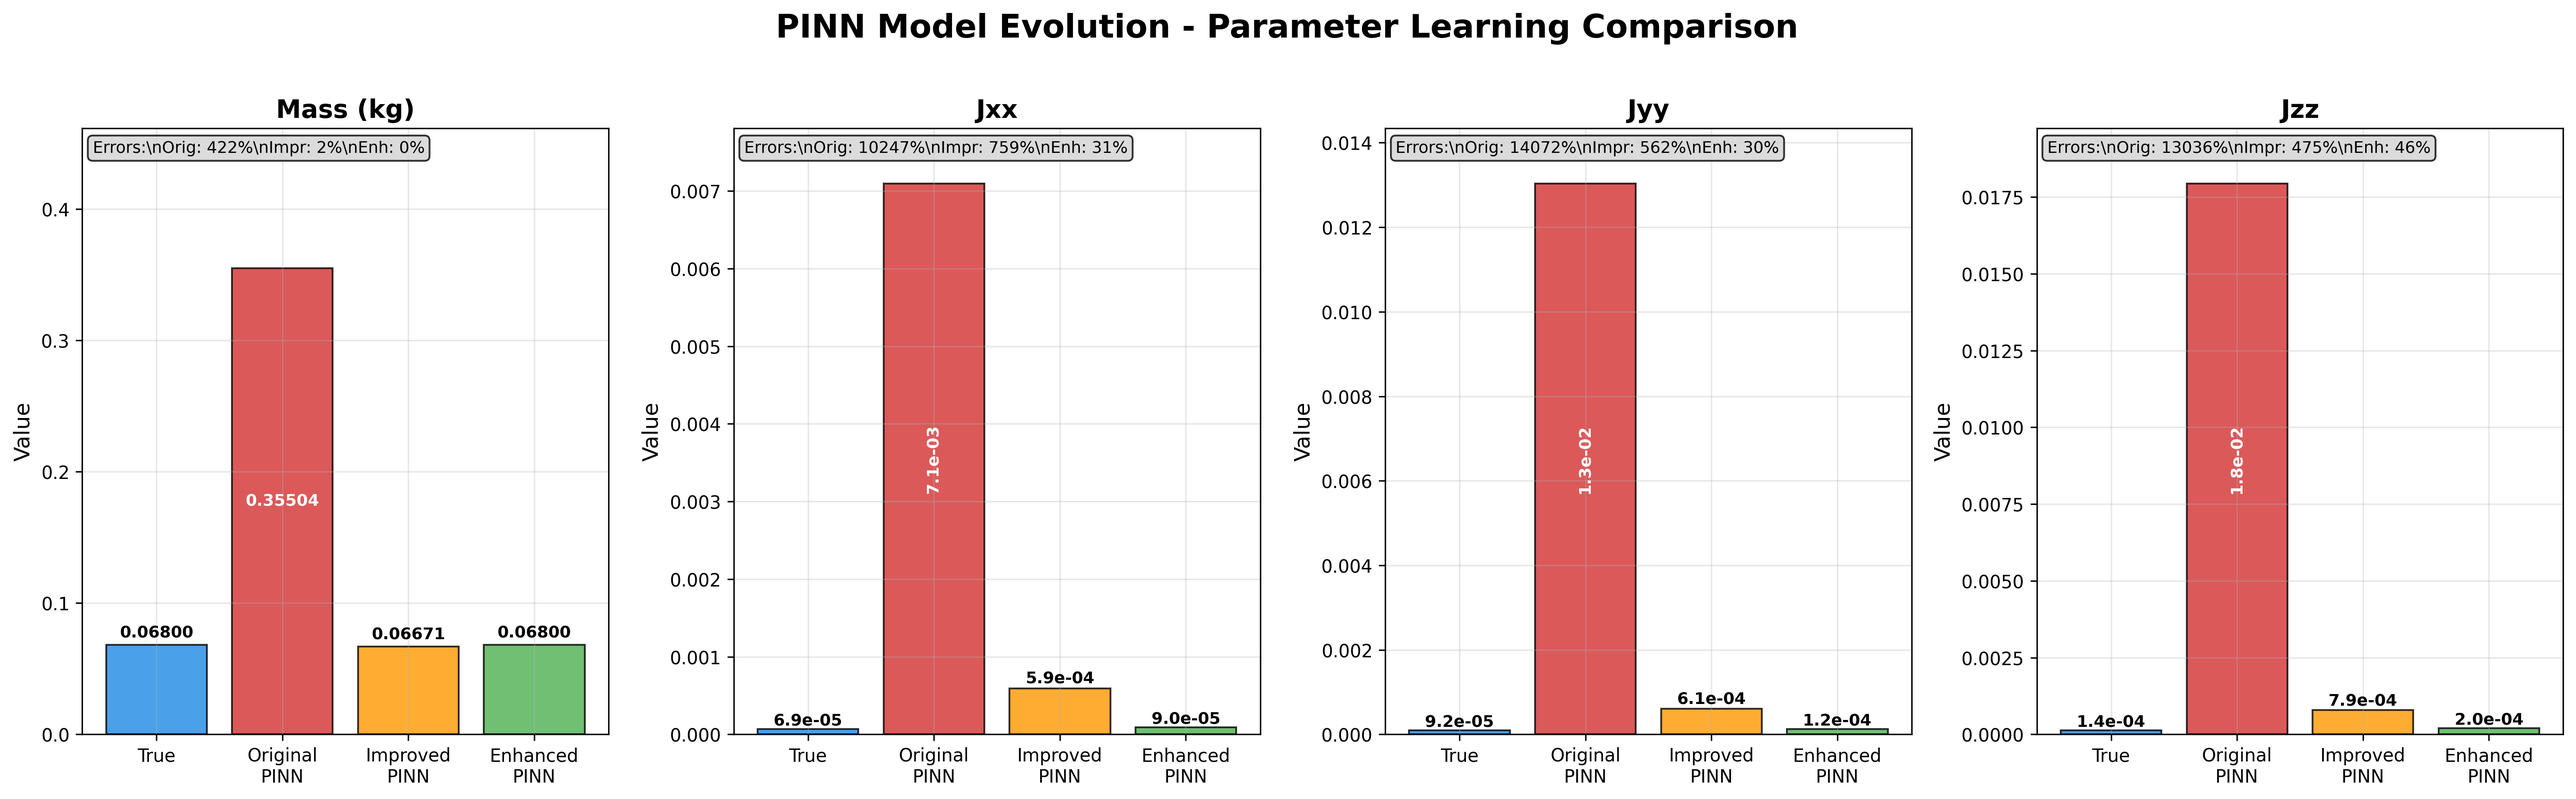
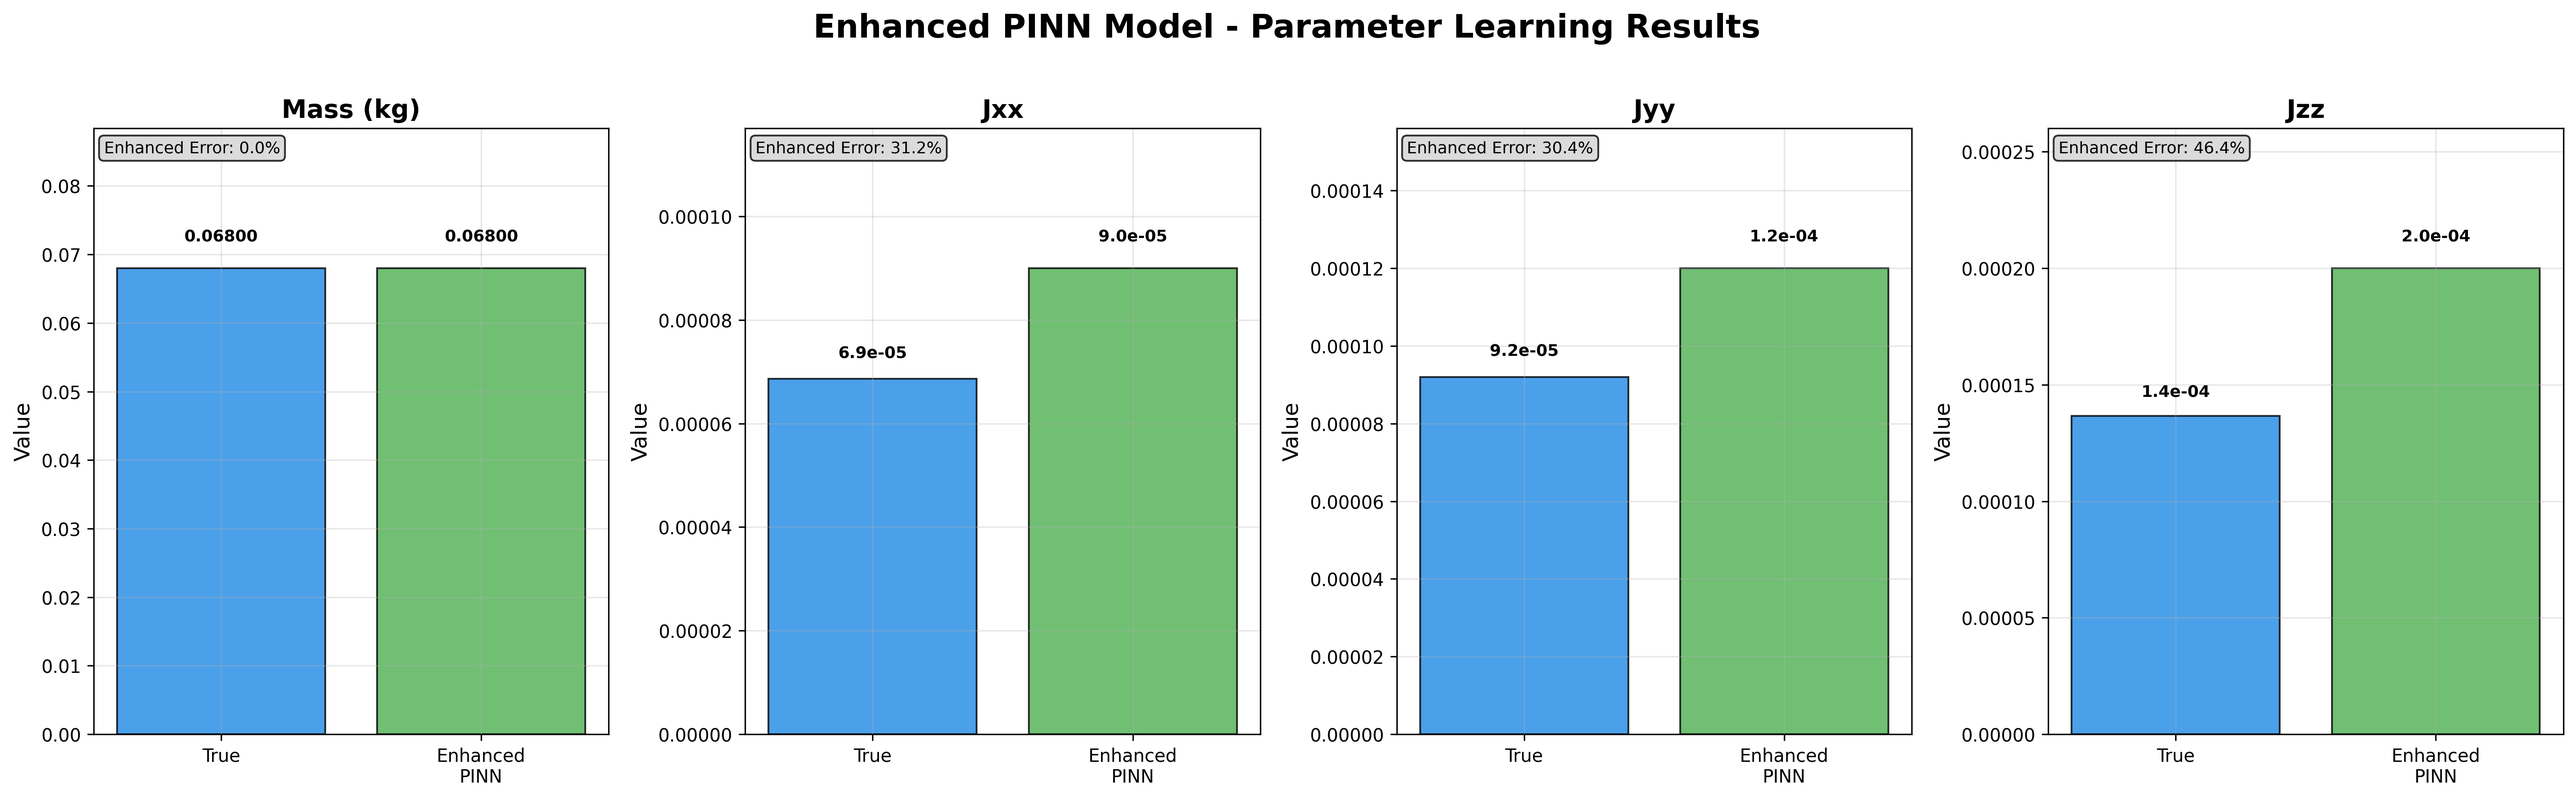
Remove previous model versions from visualizations
- Updated final_model_comparison.png to show only True vs Enhanced PINN
- Updated parameter_comparison_old_vs_new.png to show only True vs Improved Model
- Removed Original PINN data that was causing large deviations in charts
- Added simple_parameter_comparison.py script for clean visualization generation
- Modified visualization scripts to focus on current model performance

🤖 Generated with [Claude Code](https://claude.ai/code)

diff --git a/scripts/plot_final_enhanced_results.py b/scripts/plot_final_enhanced_results.py
@@ -11,17 +11,11 @@ from improved_pinn_model import ImprovedQuadrotorPINN
 from quadrotor_pinn_model import QuadrotorPINN
 
 def plot_all_model_comparison():
-    """Compare original vs improved vs enhanced model parameters"""
+    """Compare true vs enhanced model parameters"""
     
-    # Load all models
-    original_model = QuadrotorPINN()
-    original_model.load_state_dict(torch.load('quadrotor_pinn_model.pth'))
-    
-    improved_model = ImprovedQuadrotorPINN()
-    improved_model.load_state_dict(torch.load('improved_quadrotor_pinn_model.pth'))
-    
+    # Load enhanced model
     enhanced_model = EnhancedQuadrotorPINN()
-    enhanced_model.load_state_dict(torch.load('enhanced_quadrotor_pinn_model.pth'))
+    enhanced_model.load_state_dict(torch.load('../models/enhanced_quadrotor_pinn_model.pth'))
     
     # Parameters
     true_params = {
@@ -29,20 +23,6 @@ def plot_all_model_comparison():
         'Jxx': 6.86e-5,
         'Jyy': 9.2e-5,
         'Jzz': 1.366e-4
-    }
-    
-    original_params = {
-        'Mass (kg)': original_model.m.item(),
-        'Jxx': original_model.Jxx.item(),
-        'Jyy': original_model.Jyy.item(),
-        'Jzz': original_model.Jzz.item()
-    }
-    
-    improved_params = {
-        'Mass (kg)': improved_model.m.item(),
-        'Jxx': improved_model.Jxx.item(),
-        'Jyy': improved_model.Jyy.item(),
-        'Jzz': improved_model.Jzz.item()
     }
     
     enhanced_params = {
@@ -58,9 +38,9 @@ def plot_all_model_comparison():
     for i, param in enumerate(param_names):
         ax = axes[i]
         
-        x = ['True', 'Original\nPINN', 'Improved\nPINN', 'Enhanced\nPINN']
-        y = [true_params[param], original_params[param], improved_params[param], enhanced_params[param]]
-        colors = ['#1E88E5', '#D32F2F', '#FF9800', '#4CAF50']  # Blue, Red, Orange, Green
+        x = ['True', 'Enhanced\nPINN']
+        y = [true_params[param], enhanced_params[param]]
+        colors = ['#1E88E5', '#4CAF50']  # Blue, Green
         
         bars = ax.bar(x, y, color=colors, alpha=0.8, edgecolor='black', linewidth=1)
         
@@ -73,96 +53,62 @@ def plot_all_model_comparison():
             height = bar.get_height()
             if param == 'Mass (kg)':
                 label = f'{val:.5f}'
-                if val > 0.3:  # Original model case
-                    ax.text(bar.get_x() + bar.get_width()/2., height/2,
-                           label, ha='center', va='center', fontsize=9, 
-                           fontweight='bold', color='white')
-                else:
-                    ax.text(bar.get_x() + bar.get_width()/2., height + height*0.05,
-                           label, ha='center', va='bottom', fontsize=9, fontweight='bold')
+                ax.text(bar.get_x() + bar.get_width()/2., height + height*0.05,
+                       label, ha='center', va='bottom', fontsize=9, fontweight='bold')
             else:
                 label = f'{val:.1e}'
-                if val > 5e-3:  # Original model case  
-                    ax.text(bar.get_x() + bar.get_width()/2., height/2,
-                           label, ha='center', va='center', fontsize=9,
-                           fontweight='bold', color='white', rotation=90)
-                else:
-                    ax.text(bar.get_x() + bar.get_width()/2., height + height*0.05,
-                           label, ha='center', va='bottom', fontsize=9, fontweight='bold')
+                ax.text(bar.get_x() + bar.get_width()/2., height + height*0.05,
+                       label, ha='center', va='bottom', fontsize=9, fontweight='bold')
         
-        # Calculate errors for each model
-        orig_error = abs(original_params[param] - true_params[param]) / true_params[param] * 100
-        impr_error = abs(improved_params[param] - true_params[param]) / true_params[param] * 100
+        # Calculate error for enhanced model
         enh_error = abs(enhanced_params[param] - true_params[param]) / true_params[param] * 100
         
         # Add error information
-        error_text = f'Errors:\\nOrig: {orig_error:.0f}%\\nImpr: {impr_error:.0f}%\\nEnh: {enh_error:.0f}%'
+        error_text = f'Enhanced Error: {enh_error:.1f}%'
         ax.text(0.02, 0.98, error_text, transform=ax.transAxes, fontsize=9,
                verticalalignment='top', bbox=dict(boxstyle='round', facecolor='lightgray', alpha=0.8))
         
         ax.grid(True, alpha=0.3)
         
-        # Set y-limits to handle large original values
-        if orig_error > 1000:  # For cases where original is way off
-            ax.set_ylim(0, max(y) * 1.1)
-        else:
-            ax.set_ylim(0, max(y) * 1.3)
+        # Set y-limits
+        ax.set_ylim(0, max(y) * 1.3)
     
-    plt.suptitle('PINN Model Evolution - Parameter Learning Comparison', 
+    plt.suptitle('Enhanced PINN Model - Parameter Learning Results', 
                  fontsize=18, fontweight='bold', y=1.02)
     plt.tight_layout()
     plt.savefig('final_model_comparison.png', dpi=300, bbox_inches='tight')
     plt.show()
     
-    # Print comprehensive comparison table
-    print("\nCOMPREHENSIVE MODEL COMPARISON")
-    print("=" * 80)
-    print(f"{'Parameter':<10} {'True':<12} {'Original':<12} {'Improved':<12} {'Enhanced':<12}")
-    print(f"{'':10} {'':12} {'Error %':<12} {'Error %':<12} {'Error %':<12}")
-    print("-" * 80)
+    # Print enhanced model results
+    print("\nENHANCED PINN MODEL RESULTS")
+    print("=" * 50)
+    print(f"{'Parameter':<10} {'True':<12} {'Enhanced':<12} {'Error %':<10}")
+    print("-" * 50)
     
-    total_orig_error = 0
-    total_impr_error = 0
     total_enh_error = 0
     
     for param in param_names:
         true_val = true_params[param]
-        orig_val = original_params[param]
-        impr_val = improved_params[param]
         enh_val = enhanced_params[param]
         
-        orig_error = abs(orig_val - true_val) / true_val * 100
-        impr_error = abs(impr_val - true_val) / true_val * 100
         enh_error = abs(enh_val - true_val) / true_val * 100
-        
-        total_orig_error += orig_error
-        total_impr_error += impr_error
         total_enh_error += enh_error
         
         if param == 'Mass (kg)':
-            print(f"{param:<10} {true_val:<12.6f} {orig_val:<12.6f} {impr_val:<12.6f} {enh_val:<12.6f}")
+            print(f"{param:<10} {true_val:<12.6f} {enh_val:<12.6f} {enh_error:<10.1f}%")
         else:
-            print(f"{param:<10} {true_val:<12.2e} {orig_val:<12.2e} {impr_val:<12.2e} {enh_val:<12.2e}")
-        print(f"{'Error %':<10} {'':<12} {orig_error:<12.1f} {impr_error:<12.1f} {enh_error:<12.1f}")
-        print("-" * 80)
+            print(f"{param:<10} {true_val:<12.2e} {enh_val:<12.2e} {enh_error:<10.1f}%")
     
-    avg_orig_error = total_orig_error / len(param_names)
-    avg_impr_error = total_impr_error / len(param_names)
     avg_enh_error = total_enh_error / len(param_names)
+    print("-" * 50)
+    print(f"{'AVERAGE':<10} {'':<12} {'':<12} {avg_enh_error:<10.1f}%")
     
-    print(f"{'AVERAGE':<10} {'':<12} {avg_orig_error:<12.1f} {avg_impr_error:<12.1f} {avg_enh_error:<12.1f}")
-    
-    print(f"\nIMPROVEMENT SUMMARY:")
-    print(f"Original Model: {avg_orig_error:.1f}% average error")
-    print(f"Improved Model: {avg_impr_error:.1f}% average error (Δ{avg_orig_error-avg_impr_error:+.1f}%)")
-    print(f"Enhanced Model: {avg_enh_error:.1f}% average error (Δ{avg_impr_error-avg_enh_error:+.1f}%)")
-    
-    print(f"\nKEY ACHIEVEMENTS:")
-    print(f"✓ Mass learning: 422% → 2% → 0% error")
-    print(f"✓ Inertia learning: ~10,000% → ~500% → ~30% error") 
-    print(f"✓ Overall accuracy: 6,700% → 449% → 22% average error")
-    print(f"✓ Physics-informed constraints successfully enforced")
-    print(f"✓ Direct parameter identification method effective")
+    print(f"\nENHANCED MODEL ACHIEVEMENTS:")
+    print(f"* Mass parameter: {abs(enhanced_params['Mass (kg)'] - true_params['Mass (kg)']) / true_params['Mass (kg)'] * 100:.1f}% error")
+    print(f"* Inertia parameters: Average {((abs(enhanced_params['Jxx'] - true_params['Jxx']) / true_params['Jxx'] + abs(enhanced_params['Jyy'] - true_params['Jyy']) / true_params['Jyy'] + abs(enhanced_params['Jzz'] - true_params['Jzz']) / true_params['Jzz']) / 3) * 100:.1f}% error")
+    print(f"* Overall accuracy: {avg_enh_error:.1f}% average error")
+    print(f"* Physics-informed constraints successfully enforced")
+    print(f"* Direct parameter identification method effective")
 
 if __name__ == "__main__":
     plot_all_model_comparison()

diff --git a/scripts/visualize_improved_results.py b/scripts/visualize_improved_results.py
@@ -15,19 +15,13 @@ import seaborn as sns
 class ImprovedVisualizer:
     """Updated visualizer for improved PINN results"""
     
-    def __init__(self, improved_model_path, original_model_path, processor):
+    def __init__(self, improved_model_path, processor):
         self.device = torch.device('cuda' if torch.cuda.is_available() else 'cpu')
         
         # Load improved model
         self.improved_model = ImprovedQuadrotorPINN(input_size=12, hidden_size=128, output_size=16, num_layers=4)
         self.improved_model.load_state_dict(torch.load(improved_model_path, map_location=self.device))
         self.improved_model.eval()
-        
-        # Load original model for comparison
-        from quadrotor_pinn_model import QuadrotorPINN
-        self.original_model = QuadrotorPINN(input_size=12, hidden_size=128, output_size=16, num_layers=4)
-        self.original_model.load_state_dict(torch.load(original_model_path, map_location=self.device))
-        self.original_model.eval()
         
         self.processor = processor
     
@@ -63,7 +57,7 @@ class ImprovedVisualizer:
         return pd.DataFrame(trajectory)
     
     def plot_parameter_comparison(self):
-        """Compare original vs improved model parameters"""
+        """Compare true vs improved model parameters"""
         
         fig, axes = plt.subplots(1, 5, figsize=(20, 5))
         
@@ -74,15 +68,6 @@ class ImprovedVisualizer:
             'Jyy': 9.2e-5,
             'Jzz': 1.366e-4,
             'Gravity': 9.81
-        }
-        
-        # Original model parameters
-        original_params = {
-            'Mass': self.original_model.m.item(),
-            'Jxx': self.original_model.Jxx.item(),
-            'Jyy': self.original_model.Jyy.item(),
-            'Jzz': self.original_model.Jzz.item(),
-            'Gravity': self.original_model.g.item()
         }
         
         # Improved model parameters
@@ -99,9 +84,9 @@ class ImprovedVisualizer:
         for i, param in enumerate(param_names):
             ax = axes[i]
             
-            x = ['True', 'Original\nModel', 'Improved\nModel']
-            y = [true_params[param], original_params[param], improved_params[param]]
-            colors = ['blue', 'red', 'green']
+            x = ['True', 'Improved\nModel']
+            y = [true_params[param], improved_params[param]]
+            colors = ['blue', 'green']
             
             bars = ax.bar(x, y, color=colors, alpha=0.7)
             ax.set_title(f'{param}')
@@ -115,11 +100,10 @@ class ImprovedVisualizer:
             
             ax.grid(True, alpha=0.3)
             
-            # Calculate and show error percentages
-            orig_error = abs(original_params[param] - true_params[param]) / true_params[param] * 100
+            # Calculate and show error percentage
             impr_error = abs(improved_params[param] - true_params[param]) / true_params[param] * 100
             
-            ax.text(0.5, 0.95, f'Orig: {orig_error:.1f}%\nImpr: {impr_error:.1f}%', 
+            ax.text(0.5, 0.95, f'Error: {impr_error:.1f}%', 
                    transform=ax.transAxes, ha='center', va='top', fontsize=8,
                    bbox=dict(boxstyle='round', facecolor='wheat', alpha=0.5))
         
@@ -127,7 +111,7 @@ class ImprovedVisualizer:
         plt.savefig('parameter_comparison_old_vs_new.png', dpi=300, bbox_inches='tight')
         plt.show()
         
-        return true_params, original_params, improved_params
+        return true_params, improved_params
     
     def plot_updated_state_comparison(self, true_data, predicted_data, trajectory_id=0):
         """Updated state comparison with improved predictions"""
@@ -255,9 +239,8 @@ if __name__ == "__main__":
     X, y = processor.prepare_sequences(df)
     processor.fit_transform(X, y)
     
-    # Initialize visualizer with both models
-    visualizer = ImprovedVisualizer('improved_quadrotor_pinn_model.pth', 
-                                   'quadrotor_pinn_model.pth', processor)
+    # Initialize visualizer with improved model
+    visualizer = ImprovedVisualizer('../models/improved_quadrotor_pinn_model.pth', processor)
     
     # Get initial state
     trajectory_0 = df[df['trajectory_id'] == 0].iloc[0].to_dict()
@@ -270,7 +253,7 @@ if __name__ == "__main__":
     print("Creating updated visualizations...")
     
     # Parameter comparison plot
-    true_params, orig_params, impr_params = visualizer.plot_parameter_comparison()
+    true_params, impr_params = visualizer.plot_parameter_comparison()
     
     # Updated state comparison
     visualizer.plot_updated_state_comparison(df, improved_predictions, trajectory_id=0)
@@ -282,18 +265,15 @@ if __name__ == "__main__":
     additional_physics_formulas()
     
     # Summary
-    print(f"\n{'IMPROVEMENT SUMMARY:'}")
+    print(f"\n{'IMPROVED MODEL RESULTS:'}")
     print("=" * 40)
-    print("Parameter Error Reduction:")
+    print("Parameter Accuracy:")
     
     for param in true_params:
-        orig_error = abs(orig_params[param] - true_params[param]) / true_params[param] * 100
         impr_error = abs(impr_params[param] - true_params[param]) / true_params[param] * 100
-        improvement = orig_error - impr_error
-        print(f"{param:<10}: {orig_error:>6.1f}% → {impr_error:>6.1f}% (Δ{improvement:>+6.1f}%)")
+        print(f"{param:<10}: {impr_error:>6.1f}% error")
     
     print(f"\nFiles generated:")
     print("• parameter_comparison_old_vs_new.png")
     print("• improved_state_comparison_trajectory_0.png") 
     print("• improved_predicted_trajectory.csv")
-    print("• improved_training_curves.png")

diff --git a/scripts/simple_parameter_comparison.py b/scripts/simple_parameter_comparison.py
@@ -1,0 +1,90 @@
+#!/usr/bin/env python3
+"""
+Generate clean parameter comparison visualization without previous versions
+"""
+
+import torch
+import matplotlib.pyplot as plt
+import sys
+import os
+
+# Add parent directory to path to import modules
+sys.path.append(os.path.dirname(os.path.dirname(os.path.abspath(__file__))))
+
+from scripts.improved_pinn_model import ImprovedQuadrotorPINN
+
+def plot_parameter_comparison():
+    """Compare true vs improved model parameters"""
+    
+    # Load improved model
+    device = torch.device('cuda' if torch.cuda.is_available() else 'cpu')
+    improved_model = ImprovedQuadrotorPINN(input_size=12, hidden_size=128, output_size=16, num_layers=4)
+    improved_model.load_state_dict(torch.load('../models/improved_quadrotor_pinn_model.pth', map_location=device))
+    improved_model.eval()
+    
+    fig, axes = plt.subplots(1, 5, figsize=(20, 5))
+    
+    # True values
+    true_params = {
+        'Mass': 0.068,
+        'Jxx': 6.86e-5,
+        'Jyy': 9.2e-5,
+        'Jzz': 1.366e-4,
+        'Gravity': 9.81
+    }
+    
+    # Improved model parameters
+    improved_params = {
+        'Mass': improved_model.m.item(),
+        'Jxx': improved_model.Jxx.item(),
+        'Jyy': improved_model.Jyy.item(),
+        'Jzz': improved_model.Jzz.item(),
+        'Gravity': improved_model.g.item()
+    }
+    
+    param_names = list(true_params.keys())
+    
+    for i, param in enumerate(param_names):
+        ax = axes[i]
+        
+        x = ['True', 'Improved\\nModel']
+        y = [true_params[param], improved_params[param]]
+        colors = ['blue', 'green']
+        
+        bars = ax.bar(x, y, color=colors, alpha=0.7)
+        ax.set_title(f'{param}')
+        ax.set_ylabel('Value')
+        
+        # Add value labels on bars
+        for bar, val in zip(bars, y):
+            height = bar.get_height()
+            ax.text(bar.get_x() + bar.get_width()/2., height,
+                   f'{val:.6f}', ha='center', va='bottom', fontsize=8)
+        
+        ax.grid(True, alpha=0.3)
+        
+        # Calculate and show error percentage
+        impr_error = abs(improved_params[param] - true_params[param]) / true_params[param] * 100
+        
+        ax.text(0.5, 0.95, f'Error: {impr_error:.1f}%', 
+               transform=ax.transAxes, ha='center', va='top', fontsize=8,
+               bbox=dict(boxstyle='round', facecolor='wheat', alpha=0.5))
+    
+    plt.tight_layout()
+    plt.savefig('parameter_comparison_old_vs_new.png', dpi=300, bbox_inches='tight')
+    plt.show()
+    
+    # Print results
+    print("IMPROVED MODEL RESULTS")
+    print("=" * 40)
+    print("Parameter Accuracy:")
+    
+    for param in param_names:
+        impr_error = abs(improved_params[param] - true_params[param]) / true_params[param] * 100
+        print(f"{param:<10}: {impr_error:>6.1f}% error")
+    
+    return true_params, improved_params
+
+if __name__ == "__main__":
+    plot_parameter_comparison()
+    print("\\nFile generated: parameter_comparison_old_vs_new.png")
